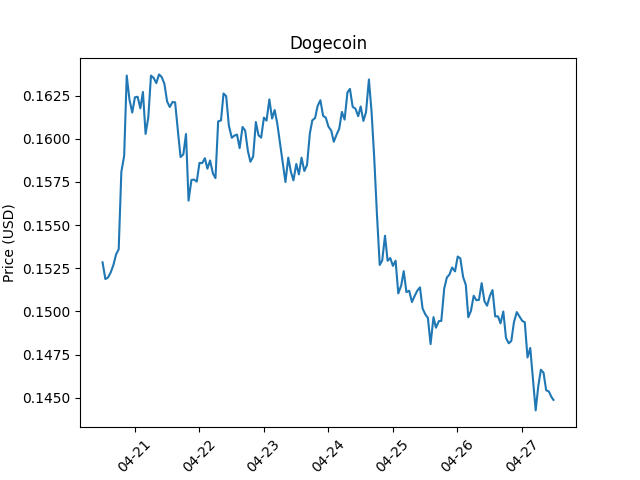
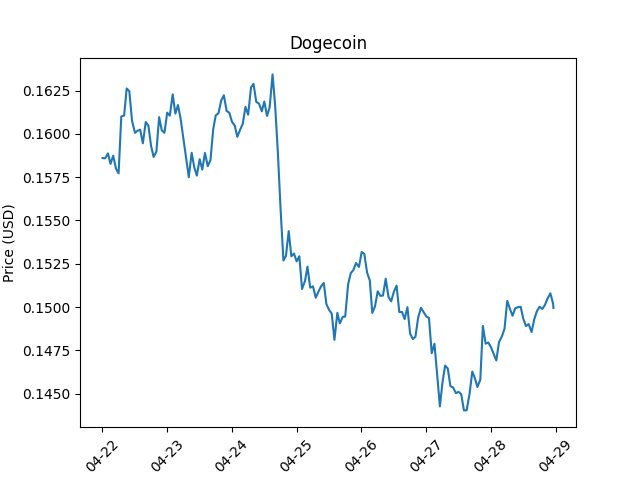
1.0.0.1

diff --git a/graphic7.py b/graphic7.py
@@ -1,0 +1,46 @@
+import pycoingecko
+import matplotlib.pyplot as plt
+import matplotlib.dates as mdates
+import datetime
+from time import sleep
+
+
+crypto_list = {'bitcoin': 'BTC', 'ethereum': 'ETH', 'solana': 'SOL', 'usd-coin': 'USDC', 'hedera-hashgraph': 'HBAR', 'first-digital-usd': 'FDUSD', 'pepe': 'PEPE', 'binancecoin': 'BNB', 'dogecoin': 'DOGE', 'ripple': 'XRP'}
+
+# Initialize CoinGecko API client
+coinGecko = pycoingecko.CoinGeckoAPI()
+
+def gr7():
+    while True:
+        for symbol, image_name in crypto_list.items():
+            # Get historical price data for the cryptocurrency for the last 7 days
+            crypto_data = coinGecko.get_coin_market_chart_by_id(symbol, 'usd', '7d')
+
+            # Extract the dates and prices from the data
+            dates = [data[0] for data in crypto_data['prices']]
+
+            # Convert unix timestamp to datetime
+            dates = [
+                datetime.datetime.fromtimestamp(date/1000)
+                for date in dates
+            ]
+
+            prices = [data[1] for data in crypto_data['prices']]
+
+            # Plot the data
+            fig, ax = plt.subplots()
+            ax.plot(dates, prices)
+            ax.xaxis.set_major_locator(mdates.DayLocator(interval=1))  # Set the interval to 1 day
+            ax.xaxis.set_major_formatter(mdates.DateFormatter('%m-%d'))  # Format the date to show month and day
+            plt.xlabel('Date')
+            plt.ylabel('Price (USD)')
+            plt.xticks(rotation=45)
+            plt.title(symbol.capitalize())  # Set the title to the capitalized symbol
+
+            # Save the image in the 'Images/Graphic_Image7' folder with the symbol as the filename
+            plt.savefig(f'Images/Graphic_Image7/{image_name}.png')
+            plt.close()
+          
+        print('Графики 7 дней готовы')    
+        sleep(10 * 60) 
+        

diff --git a/graphic24.py b/graphic24.py
@@ -1,0 +1,45 @@
+import pycoingecko
+import matplotlib.pyplot as plt
+import matplotlib.dates as mdates
+import datetime
+from time import sleep
+
+crypto_list = {'bitcoin': 'BTC', 'ethereum': 'ETH', 'solana': 'SOL', 'usd-coin': 'USDC', 'hedera-hashgraph': 'HBAR', 'first-digital-usd': 'FDUSD', 'pepe': 'PEPE', 'binancecoin': 'BNB', 'dogecoin': 'DOGE', 'ripple': 'XRP'}
+
+# Initialize CoinGecko API client
+coinGecko = pycoingecko.CoinGeckoAPI()
+
+def gr24():
+    while True:
+        for symbol, image_name in crypto_list.items():
+            # Get historical price data for the cryptocurrency for the last 24 hours
+            crypto_data = coinGecko.get_coin_market_chart_by_id(symbol, 'usd', '1d')
+
+            # Extract the dates and prices from the data
+            dates = [data[0] for data in crypto_data['prices']]
+
+            # Convert unix timestamp to datetime
+            dates = [
+                datetime.datetime.fromtimestamp(date/1000)
+                for date in dates
+            ]
+
+            prices = [data[1] for data in crypto_data['prices']]
+
+            # Plot the data
+            fig, ax = plt.subplots()
+            ax.plot(dates, prices)
+            ax.xaxis.set_major_locator(mdates.HourLocator(interval=1))
+            ax.xaxis.set_major_formatter(mdates.DateFormatter('%H:%M'))
+            plt.xlabel('Date')
+            plt.ylabel('Price (USD)')
+            plt.xticks(rotation=45)
+            plt.title(symbol.capitalize())  # Set the title to the capitalized symbol
+
+            # Save the image in the 'Graphic_Image24' folder with the symbol as the filename
+            plt.savefig(f'Images/Graphic_Image24/{image_name}.png')
+            plt.close()
+         
+        print('Графики 24 часа готовы')            
+        sleep(5 * 60) 
+        

diff --git a/main.py b/main.py
@@ -7,7 +7,9 @@ from dotenv import load_dotenv
 from database.models import async_main
 from app import handlers, handlers_cmd, fsm
 from bot_cmds_list import commands
-
+import multiprocessing
+from graphic24 import gr24
+from graphic7 import gr7
 
 async def main():
     load_dotenv()
@@ -20,11 +22,31 @@ async def main():
     await bot(DeleteWebhook(drop_pending_updates=True))
     await bot.set_my_commands(commands=commands)
     await dp.start_polling(bot)
+
     
-if __name__ == '__main__':
-    logging.basicConfig(level=logging.INFO)
+def start_main():
     try:
         asyncio.run(main())
     except KeyboardInterrupt:
         print('Exit')
-    
+
+def start_gr24():
+    gr24()
+
+def start_gr7():
+    gr7()
+
+if __name__ == '__main__':
+    logging.basicConfig(level=logging.INFO)
+    process_main = multiprocessing.Process(target=start_main)
+    process_gr24 = multiprocessing.Process(target=start_gr24)
+    process_gr7 = multiprocessing.Process(target=start_gr7)
+
+    process_main.start()
+    process_gr24.start()
+    process_gr7.start()
+
+
+    process_main.join()
+    process_gr24.join()
+    process_gr7.join()

diff --git a/test7.py b/test7.py
@@ -1,0 +1,27 @@
+import multiprocessing
+import time
+from graphic7 import fetch_and_save_crypto_data7 as gr7
+
+def script1():
+    while True:
+        print("Script 1 started")
+        gr7()
+
+def script2():
+    while True:
+        print("Script 2 started")
+        time.sleep(1)  # Ждем 1 секунду, чтобы не забивать процессор
+
+if __name__ == "__main__":
+    # Создаем процессы для каждого скрипта
+    process1 = multiprocessing.Process(target=script1)
+    process2 = multiprocessing.Process(target=script2)
+    
+    # Запускаем оба процесса
+    process1.start()
+    process2.start()
+    
+    # Ожидаем завершения работы обоих процессов (это никогда не произойдет из-за бесконечного цикла в скриптах)
+    process1.join()
+    process2.join()
+
